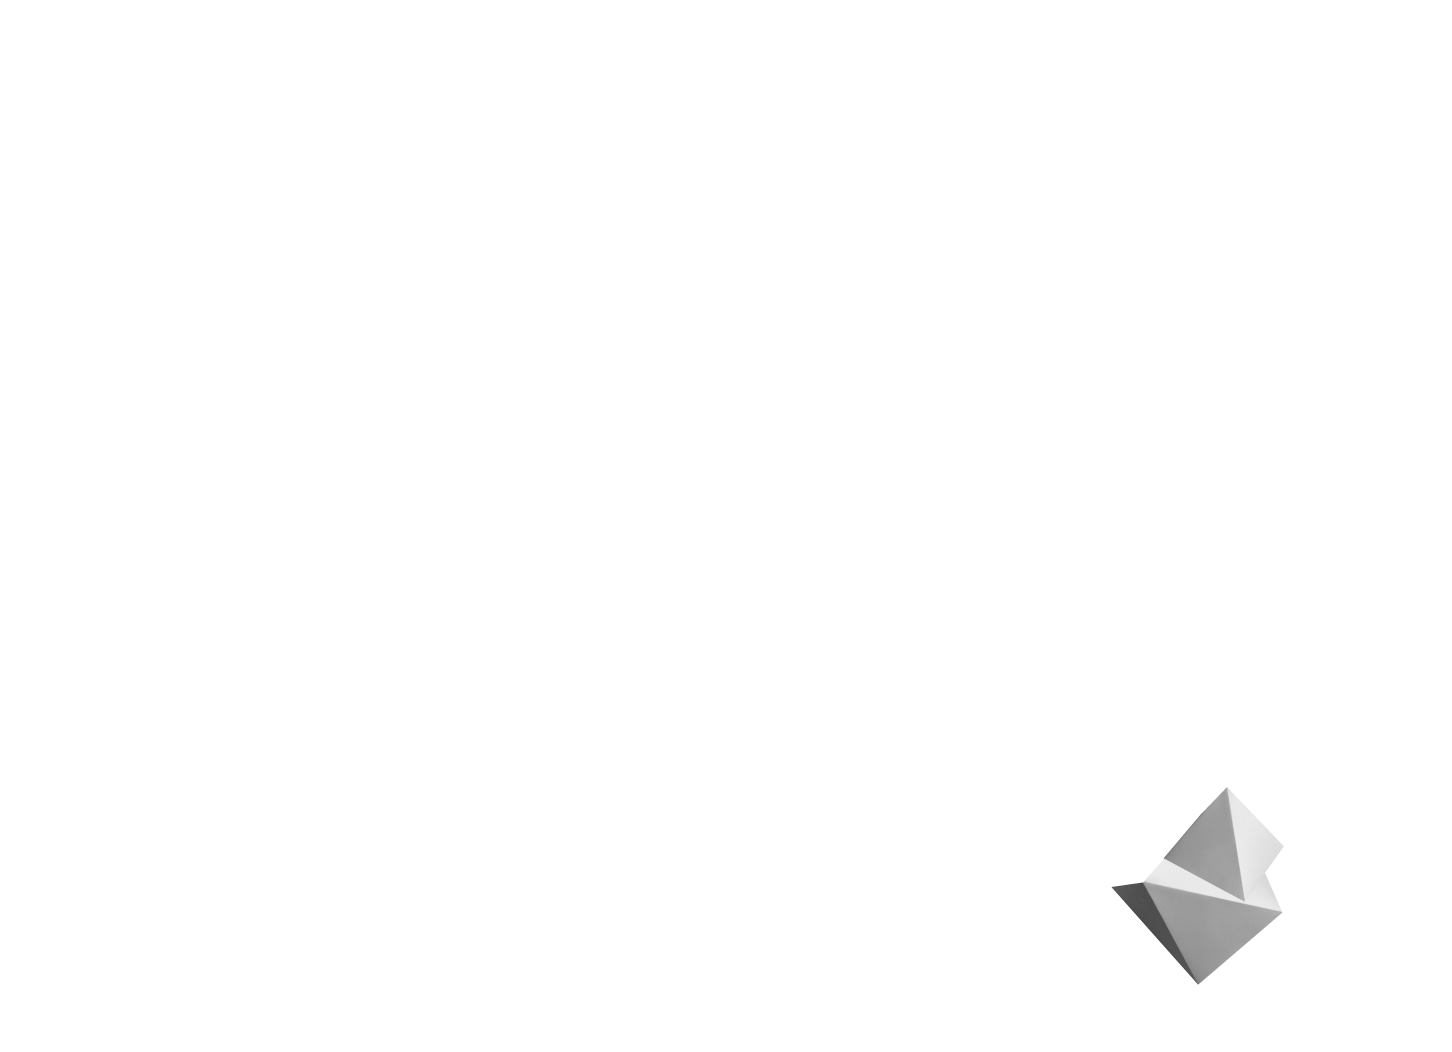
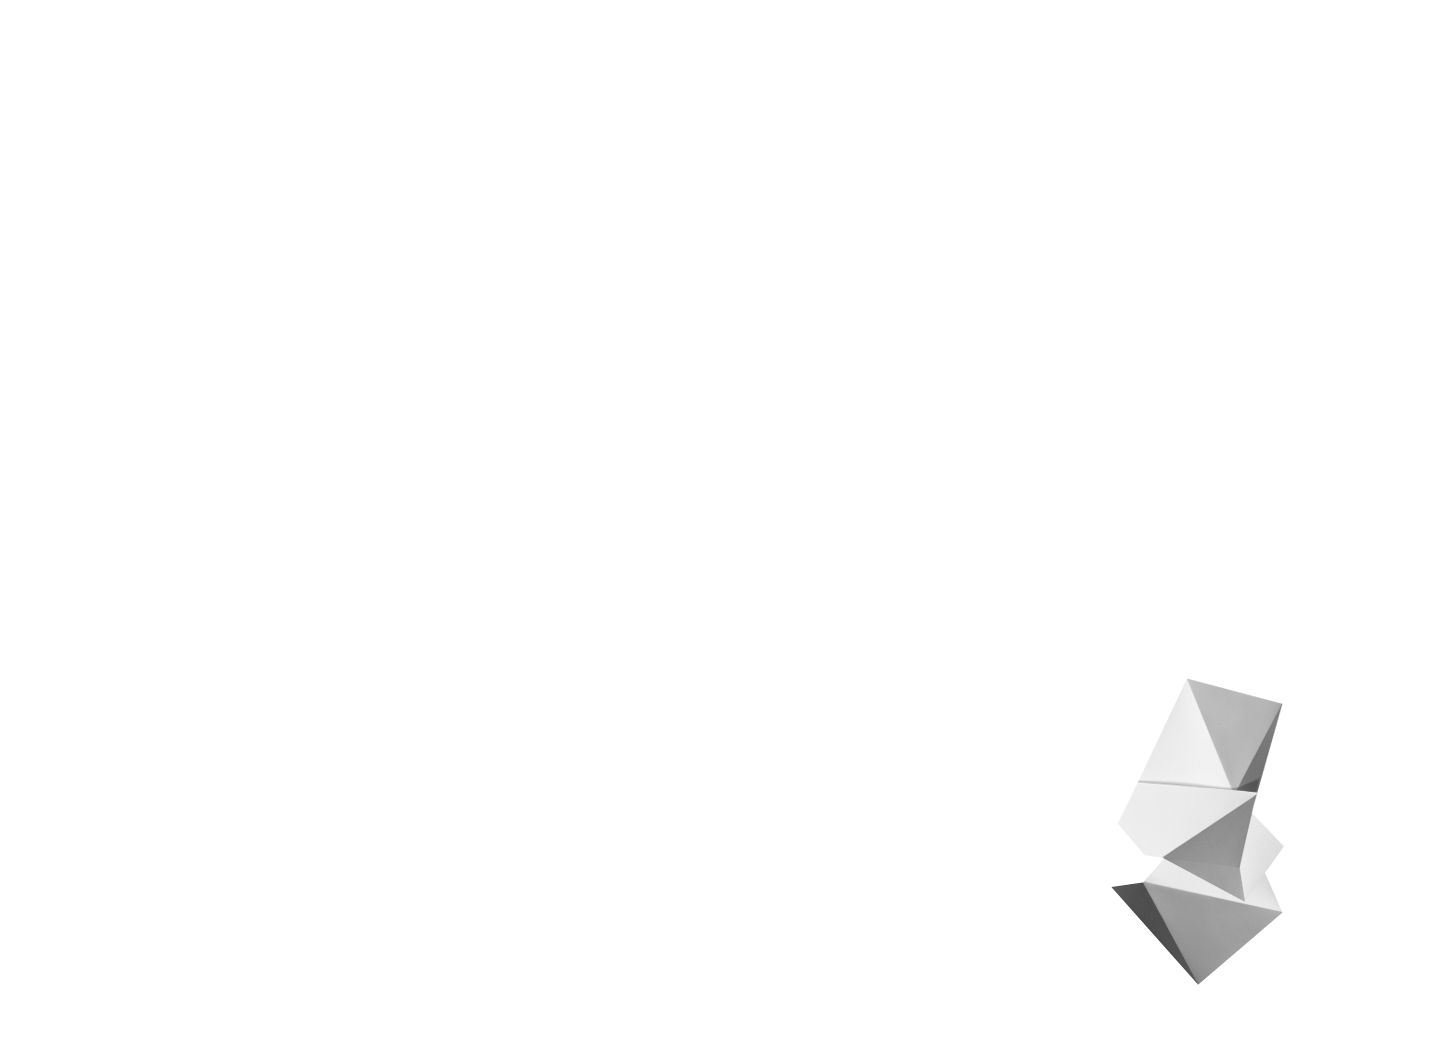
Remove a few parallax images

Changed region(s): [[0.8058, 0.6388, 0.8988, 0.8213]]

diff --git a/public/wp-content/themes/uwdesign2013/page-show.php b/public/wp-content/themes/uwdesign2013/page-show.php
@@ -15,7 +15,6 @@
   <div data-img="N" data-0="top:-600px" data-600="top:400px"></div>
   
   <div data-img="shape1a" data-0="top:200px" data-1000="top:600px"></div>
-  <div data-img="shape1b" data-0="top:500px" data-1000="top:400px"></div>
   
   <div data-img="shape2b" data-0="left:-15px;top:600px" data-400="left:-10px;top:350px"></div>
   <div data-img="shape2a" data-0="top:-200px" data-300="top:350px"></div>
@@ -23,12 +22,9 @@
   <div data-img="shape3a" data-0="top:100px" data-1000="top:600px"></div>
   
   <div data-img="shape4a" data-0="top:500px" data-900="top:230px"></div>
-  <div data-img="shape4b" data-0="top:800px" data-1200="top:100px"></div>
   
   <div data-img="shape4d" data-0="top:-217px;left:-68px" data-900="top:-600px"></div>
-  <div data-img="shape4c" data-0="top:-100px" data-900="top:-600px"></div>
 
-    
   <div data-img="shape5a" data-300="top:1200px" data-900="top:450px;left:30px"></div>
   <div data-img="shape5b" data-300="top:900px" data-900="top:450px;left:30px"></div>
 
